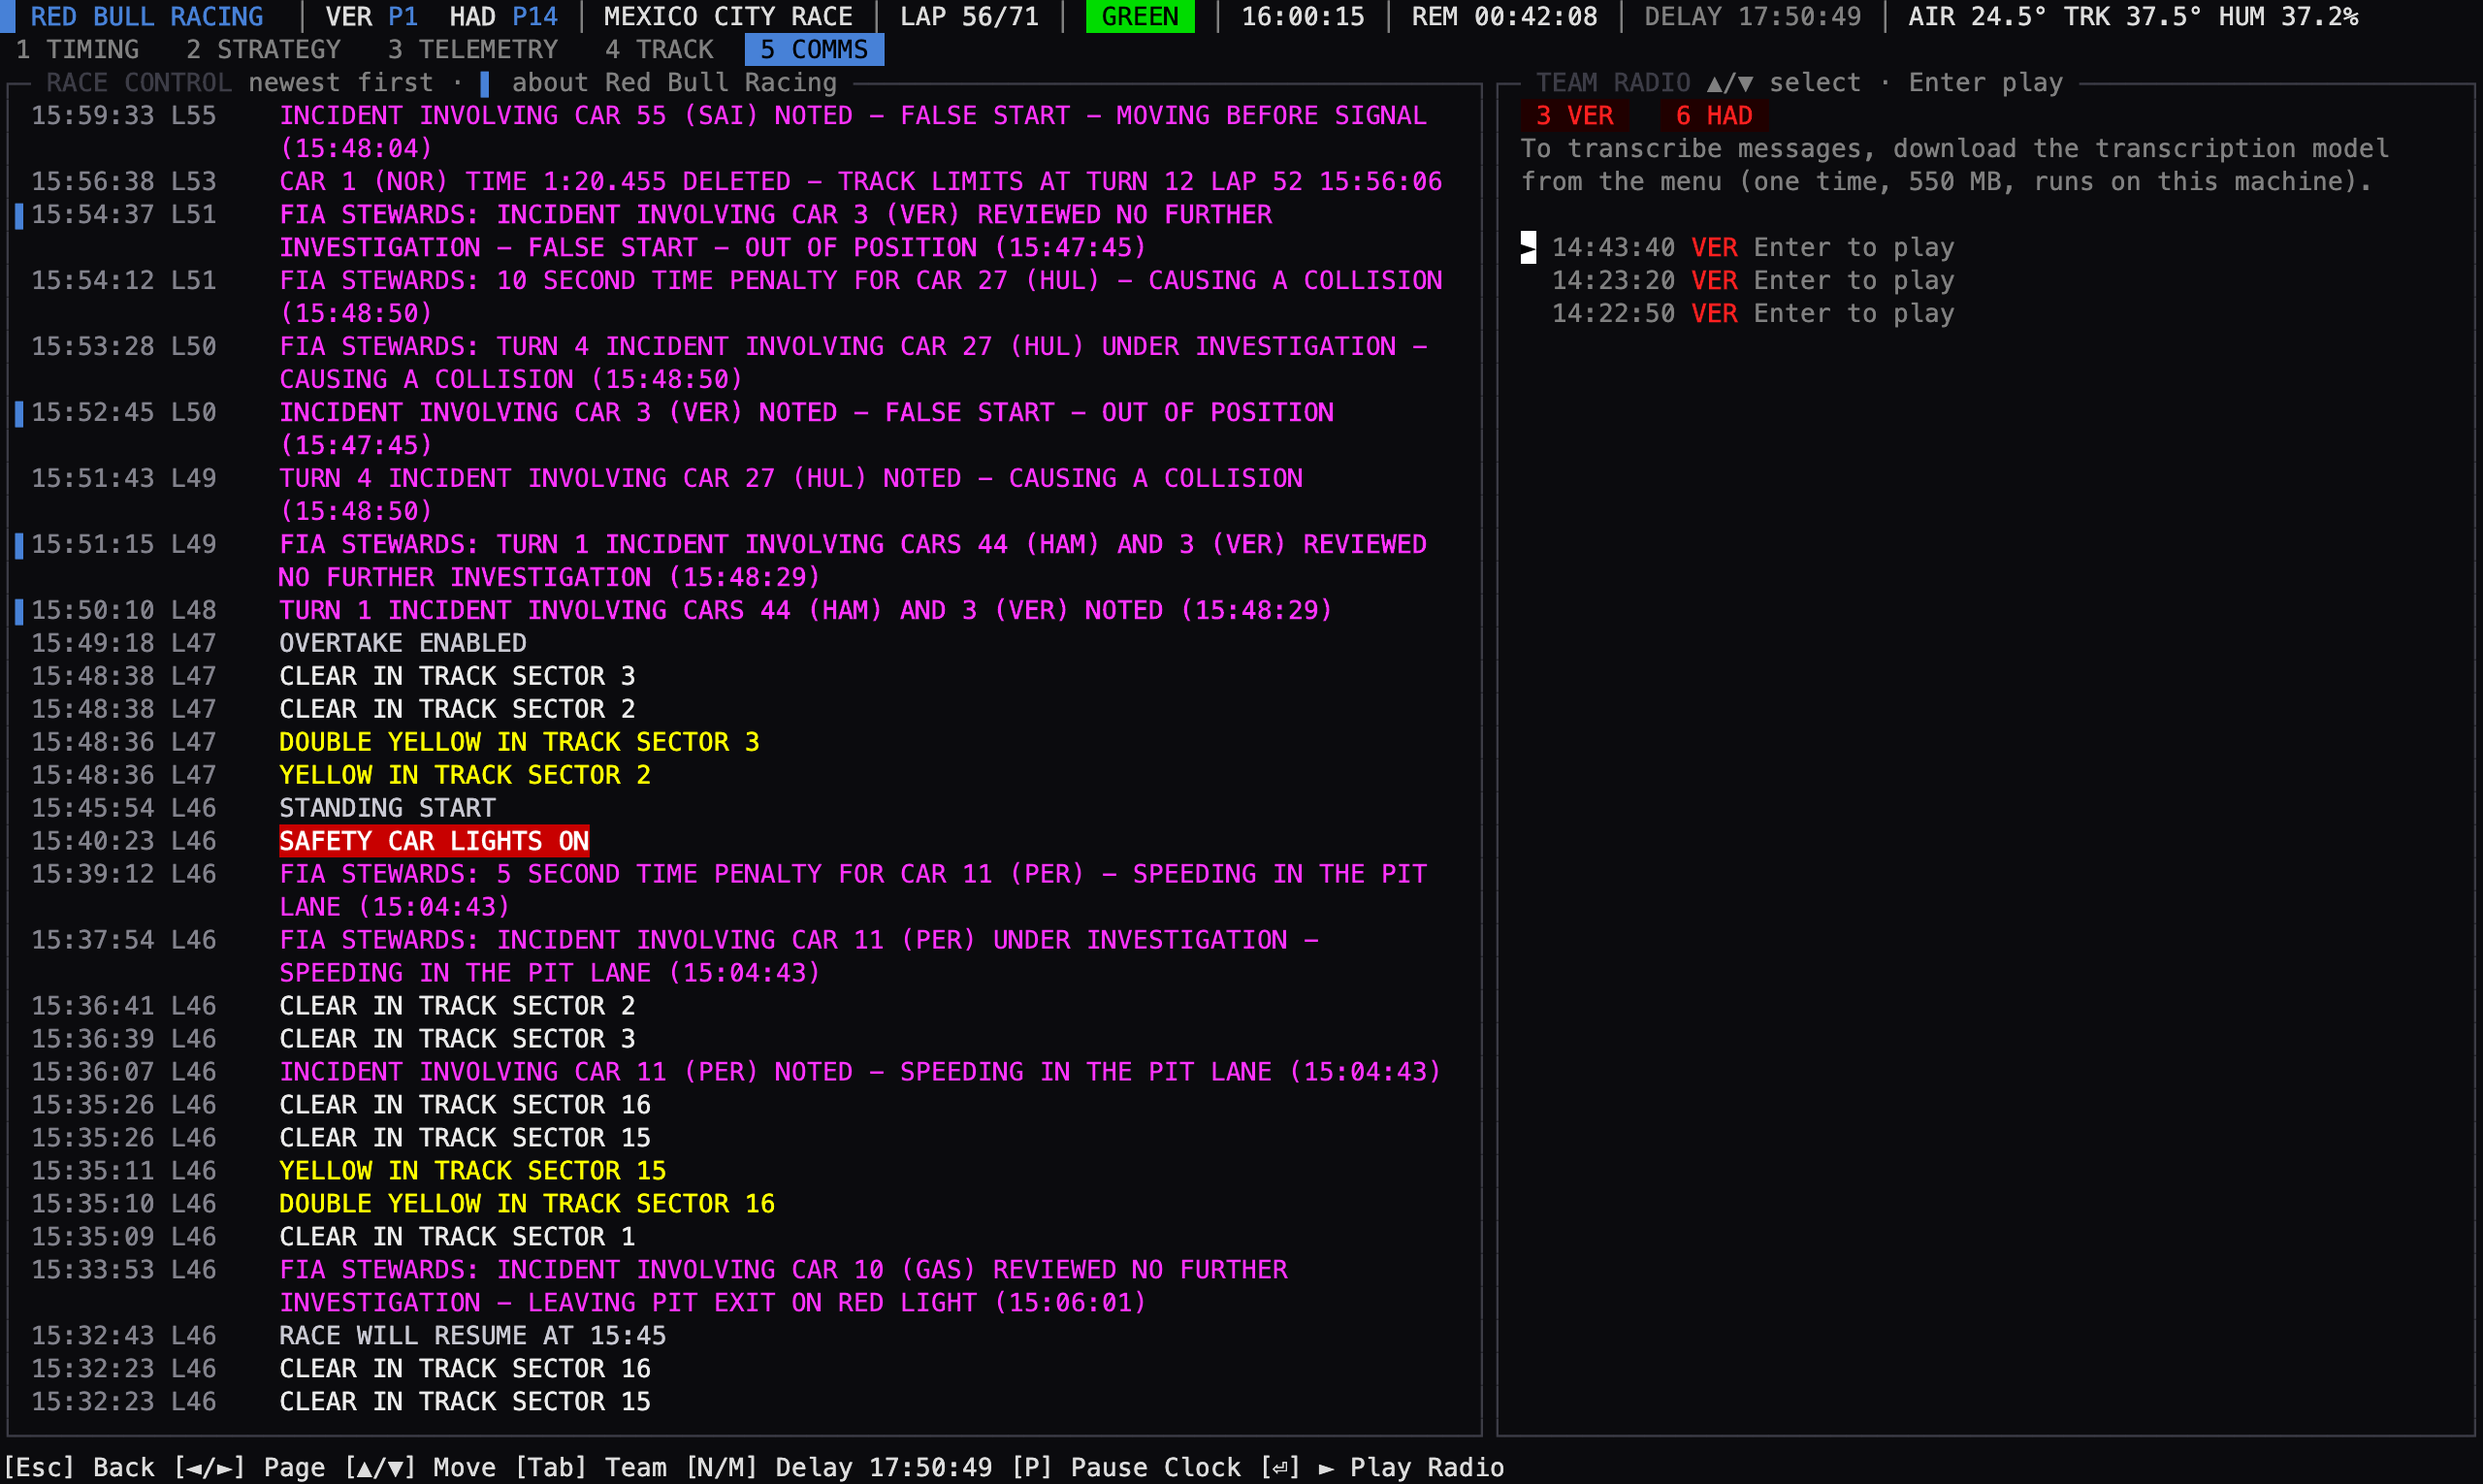
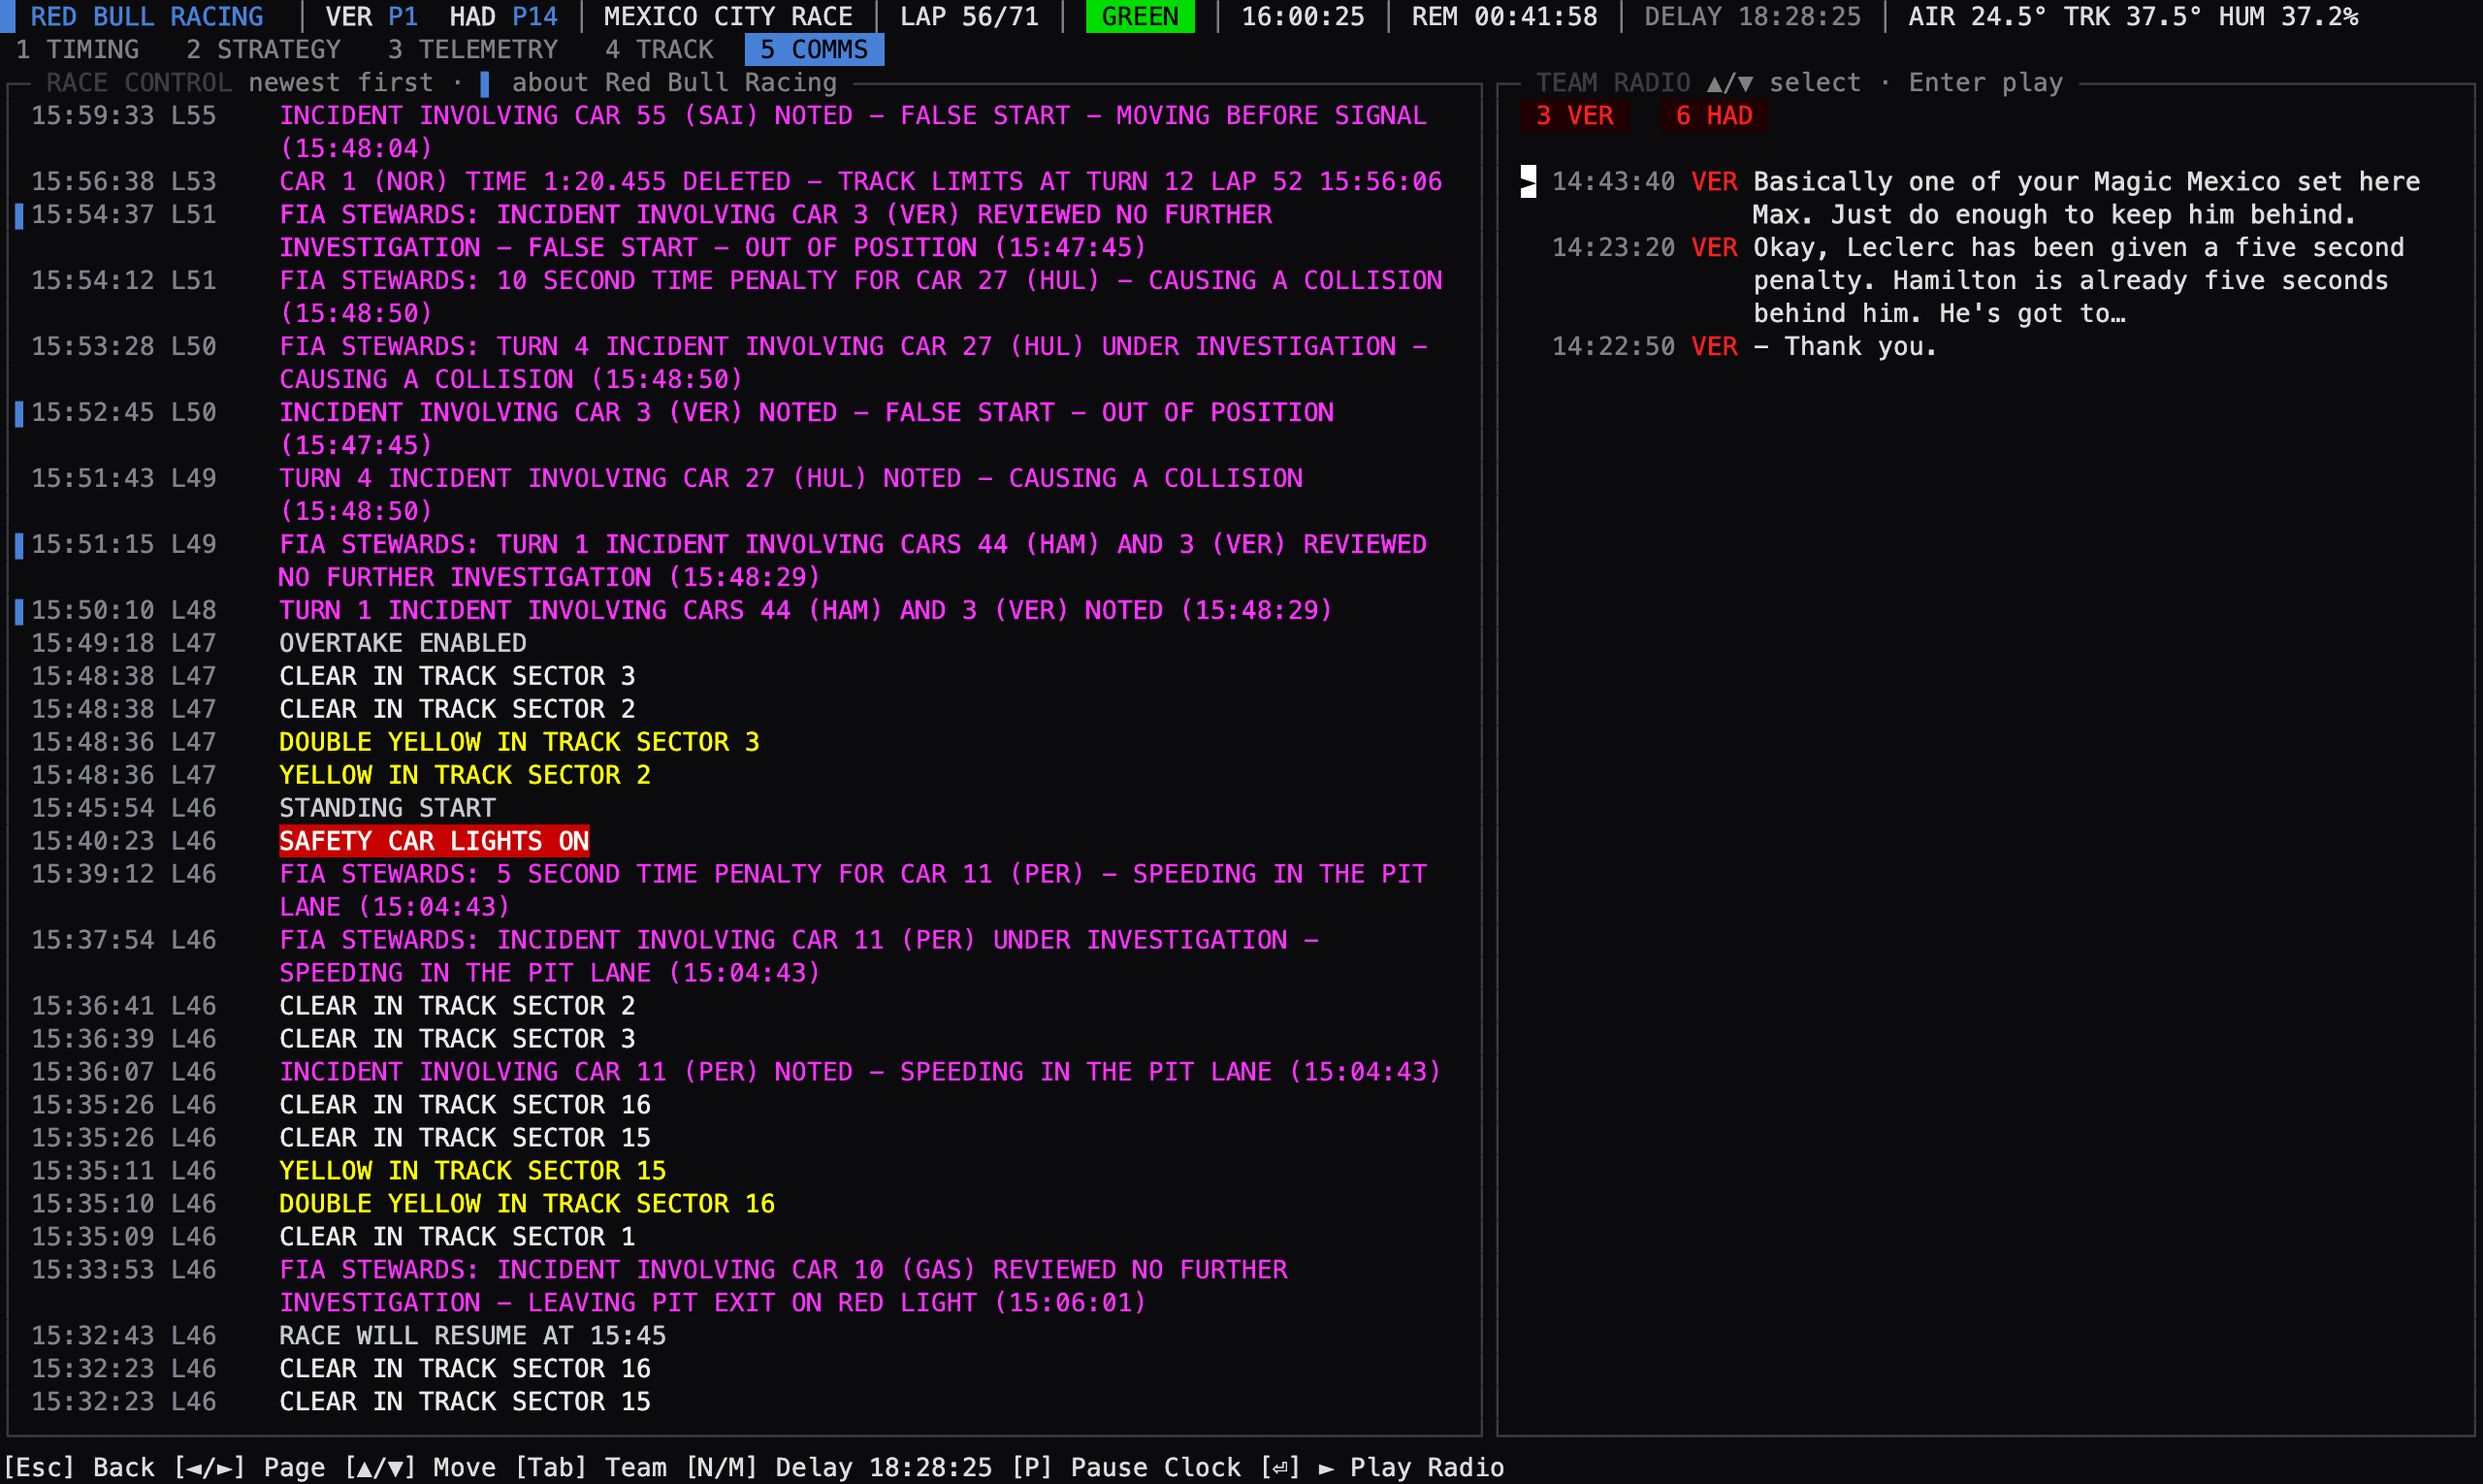
Transcribed radio in the README screenshot, tidier radio list
- The screenshot tool uses the downloaded transcription model and waits
  for the team's radio to be transcribed before drawing the Comms page.
- Radio messages are laid out as a table so long transcriptions wrap in
  their own column; extra spaces from Whisper are collapsed, and other
  messages are cut at a word boundary.

diff --git a/Pitwall.Console/Display/PitWall/PitWallCommsDisplay.cs b/Pitwall.Console/Display/PitWall/PitWallCommsDisplay.cs
@@ -85,6 +85,9 @@ public sealed partial class PitWallCommsDisplay(
             : new Style(foreground: new Color(200, 200, 210));
     }
 
+    [GeneratedRegex(@"\s+")]
+    private static partial Regex Whitespace();
+
     [GeneratedRegex(@"CARS? (\d+)")]
     private static partial Regex CarNumbersRegex();
 
@@ -188,26 +191,46 @@ public sealed partial class PitWallCommsDisplay(
             ? TimeSpan.Zero
             : TimeSpan.Parse(sessionInfo.Latest.GmtOffset);
 
+        // A table, so long transcriptions wrap under their own column. The selected message is
+        // shown in full, the others cut to about two lines.
+        var list = new Table().NoBorder().NoSafeBorder().HideHeaders().Expand();
+        list.AddColumn(new TableColumn("") { Width = 1, Padding = new Padding(0, 0, 1, 0) });
+        list.AddColumn(new TableColumn("") { Width = 8, Padding = new Padding(0, 0, 1, 0) });
+        list.AddColumn(new TableColumn("") { Width = 3, Padding = new Padding(0, 0, 1, 0) });
+        list.AddColumn(new TableColumn(""));
+
         foreach (var (key, capture) in captures.Take(20))
         {
             var driver = context.Driver(capture.RacingNumber);
             var isSelected = key == selected.Key;
-            var marker = isSelected ? "[black on white]►[/]" : " ";
-            var transcription = capture.Transcription?.ReplaceLineEndings(" ");
-            if (!isSelected && transcription?.Length > 60)
-                transcription = transcription[..60] + "…";
-            var preview =
-                transcription is not null ? Markup.Escape(transcription)
-                : transcriber.Current == key ? "[olive]transcribing…[/]"
-                : transcriber.ModelAvailable && transcriber.Problem is null
-                    ? "[grey]waiting to transcribe[/]"
-                : "[grey]Enter to play[/]";
-            rows.Add(
-                new Markup(
-                    $@"{marker} [grey]{capture.Utc?.ToOffset(offset):HH\:mm\:ss}[/] [bold {Led}]{driver.Tla}[/] {preview}"
-                )
+            // Whisper leaves extra spaces between sentences; show the text as one clean paragraph
+            var transcription = capture.Transcription is null
+                ? null
+                : Whitespace().Replace(capture.Transcription, " ").Trim();
+            if (!isSelected && transcription?.Length > 110)
+            {
+                // Cut at the last word that fits, or mid-word if there's no space at all
+                var cut = transcription.LastIndexOf(' ', 110);
+                transcription = transcription[..(cut > 0 ? cut : 110)].TrimEnd() + "…";
+            }
+            var text = transcription is not null
+                ? isSelected
+                    ? $"[bold]{Markup.Escape(transcription)}[/]"
+                    : Markup.Escape(transcription)
+                : transcriber.Current == key
+                    ? "[olive]transcribing…[/]"
+                    : transcriber.ModelAvailable && transcriber.Problem is null
+                        ? "[grey]waiting to transcribe[/]"
+                        : "[grey]Enter to play[/]";
+
+            list.AddRow(
+                new Markup(isSelected ? "[black on white]►[/]" : " "),
+                new Markup($@"[grey]{capture.Utc?.ToOffset(offset):HH\:mm\:ss}[/]"),
+                new Markup($"[bold {Led}]{driver.Tla}[/]"),
+                new Markup(text)
             );
         }
+        rows.Add(list);
 
         return new Panel(new Rows(rows))
         {

diff --git a/gen/Pitwall.CodeGenerator/Screenshots.cs b/gen/Pitwall.CodeGenerator/Screenshots.cs
@@ -23,6 +23,7 @@ public sealed class Screenshots
     private const int Columns = 160;
     private const int Rows = 45;
     private const float FontSize = 26;
+    private const string ModelFile = "ggml-large-v3-turbo-q5.bin";
 
     private static readonly SKColor DefaultForeground = SKColor.Parse("dddddd");
     private static readonly SKColor DefaultBackground = SKColor.Parse("0b0b0e");
@@ -55,16 +56,20 @@ public sealed class Screenshots
         var cellHeight = (int)Math.Ceiling(FontSize * 1.3f);
         var images = new CapturingImages(cellWidth, cellHeight);
 
-        // An empty data directory, so no transcription model is found and nothing is downloaded
+        // A fresh data directory, with the transcription model from Pitwall's own data directory
+        // linked in if it has been downloaded, so the Comms page can show transcribed radio
+        var dataDirectory = Path.Join(Path.GetTempPath(), $"pitwall-shots-{Guid.NewGuid():N}");
+        Directory.CreateDirectory(Path.Join(dataDirectory, "models"));
+        var model = Path.Join(new ConsoleOptions().DataDirectory, "models", ModelFile);
+        if (File.Exists(model))
+            File.CreateSymbolicLink(Path.Join(dataDirectory, "models", ModelFile), model);
+        else
+            await Terminal.OutLineAsync(
+                $"  No transcription model at {model}: radio won't be transcribed"
+            );
         var configuration = new ConfigurationBuilder()
             .AddInMemoryCollection(
-                new Dictionary<string, string?>
-                {
-                    ["DataDirectory"] = Path.Join(
-                        Path.GetTempPath(),
-                        $"pitwall-shots-{Guid.NewGuid():N}"
-                    ),
-                }
+                new Dictionary<string, string?> { ["DataDirectory"] = dataDirectory }
             )
             .Build();
         var services = new ServiceCollection()
@@ -96,6 +101,23 @@ public sealed class Screenshots
         Directory.CreateDirectory(outputDirectory);
         var displays = services.GetServices<IDisplay>().ToList();
         var handlers = services.GetServices<IInputHandler>().ToList();
+
+        // Transcribe the team's radio before drawing the Comms page; it runs on this machine, so
+        // it takes a little while per message
+        var transcriber = services.GetRequiredService<RadioTranscriber>();
+        if (transcriber.ModelAvailable)
+        {
+            await Terminal.OutLineAsync("  Transcribing the team's radio...");
+            var deadline = DateTime.UtcNow.AddMinutes(10);
+            transcriber.Tick();
+            while (!transcriber.Finished && DateTime.UtcNow < deadline)
+            {
+                await Task.Delay(500);
+                transcriber.Tick();
+            }
+            if (transcriber.Problem is { } problem)
+                await Terminal.OutLineAsync($"  Transcription problem: {problem}");
+        }
 
         foreach (var (screen, name) in PitWallComponents.Pages)
         {

diff --git a/Pitwall.Console/Audio/RadioTranscriber.cs b/Pitwall.Console/Audio/RadioTranscriber.cs
@@ -31,6 +31,20 @@ public sealed class RadioTranscriber(
     public bool ModelAvailable => transcriptionProvider.IsModelDownloaded;
 
     /// <summary>
+    /// Whether every one of the team's messages has been transcribed (or couldn't be), so there
+    /// is nothing left to do until new messages arrive.
+    /// </summary>
+    public bool Finished
+    {
+        get
+        {
+            lock (_lock)
+                return (_worker is null or { IsCompleted: true })
+                    && (Problem is not null || NextCapture() is null);
+        }
+    }
+
+    /// <summary>
     /// Starts transcribing any of the team's messages that don't have a transcription yet.
     /// Cheap to call often: does nothing while already working or when there's nothing to do.
     /// </summary>
